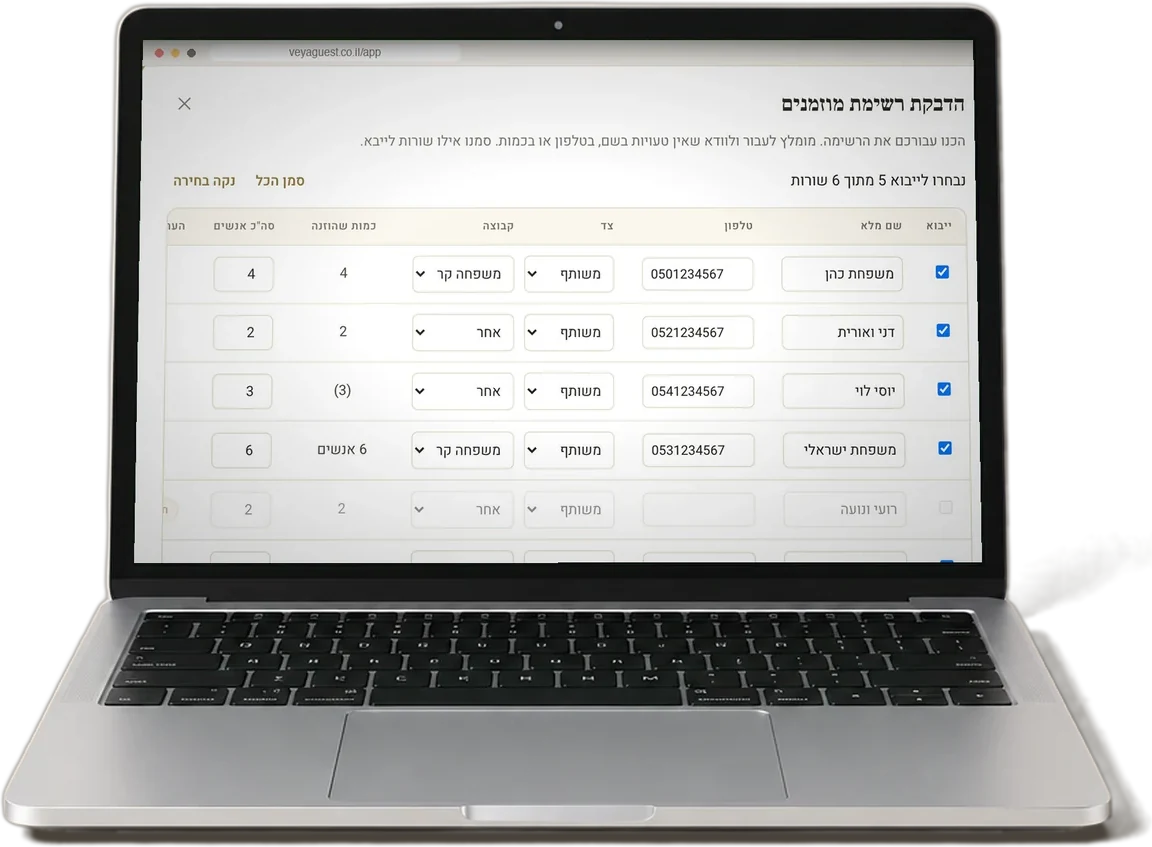
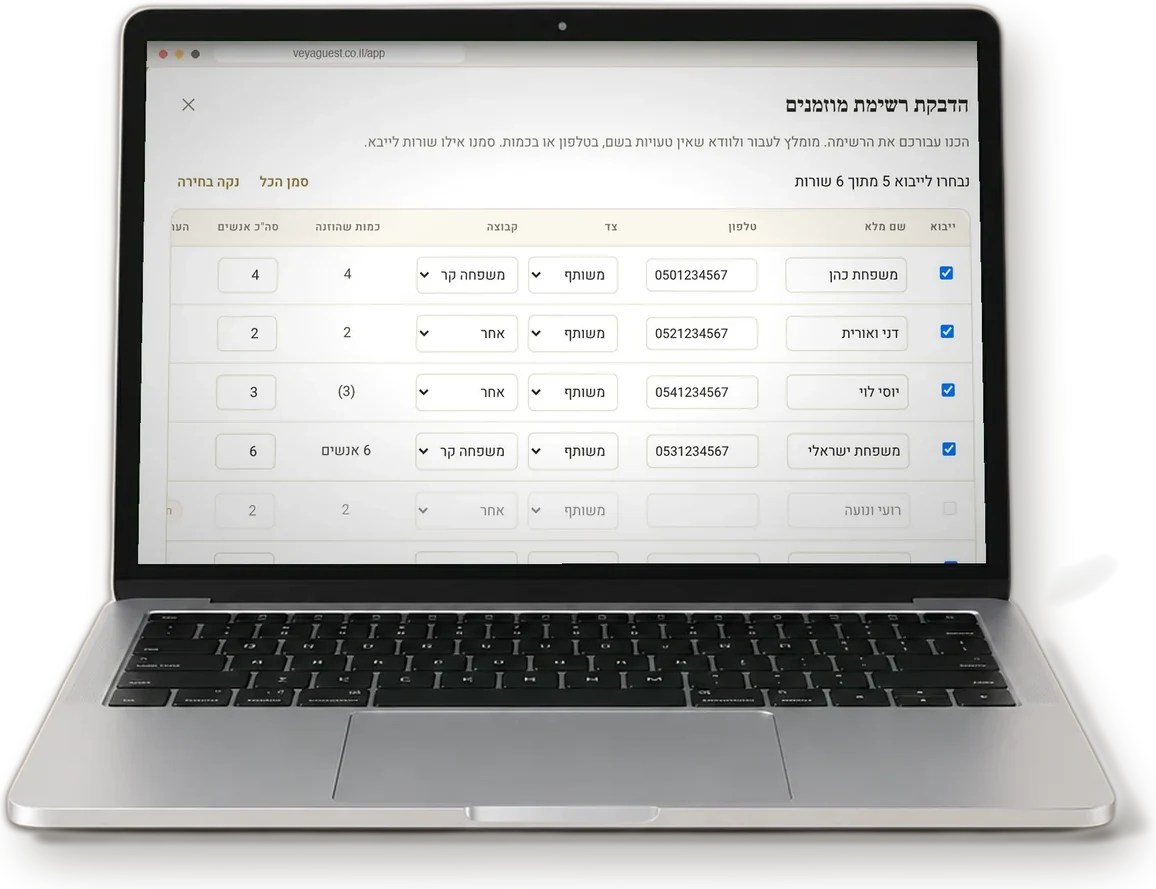
דף הבית: צל נקי למחשבים — קו מגע מתחת לבסיס וצל רך לצד, בלי גרעיניות
הצל של הצילום הוחלק (בלי הגרעיניות של הנייר), ונוספו צל מגע צמוד שנבנה מקו
המתאר של המחשב וצל מוטל רך שנופל מעט הצידה, הרחק מהאור. קצה הבסיס נשאר שלם.

diff --git a/frontend/index.html b/frontend/index.html
@@ -2209,7 +2209,7 @@ html[data-a11y-motion] .lp-enter, html[data-a11y-motion] .lp-rv { opacity: 1; tr
       <a class="lp-link lp-more" href="/features/guests/">על רשימת המוזמנים</a>
     </div>
     <div class="lp-scene">
-      <figure class="lp-device lp-rv"><img loading="lazy" decoding="async" src="/product/mac-paste-review-front.webp" width="1152" height="847" alt="בדיקת רשימה שהודבקה: שמות, טלפונים, צד, קבוצה וכמות, על מסך מחשב נייד"></figure>
+      <figure class="lp-device lp-rv"><img loading="lazy" decoding="async" src="/product/mac-paste-review-front.webp" width="1156" height="889" alt="בדיקת רשימה שהודבקה: שמות, טלפונים, צד, קבוצה וכמות, על מסך מחשב נייד"></figure>
       <img loading="lazy" decoding="async" class="lp-person lp-rv" style="transition-delay:200ms" src="/people/planning-together.webp" alt="זוג מול המחשב">
       <div class="lp-chip lp-a lp-rv" style="transition-delay:350ms"><b class="lp-sm">5 מתוך 6 שורות</b>נבחרו לייבוא</div>
     </div>
@@ -2226,7 +2226,7 @@ html[data-a11y-motion] .lp-enter, html[data-a11y-motion] .lp-rv { opacity: 1; tr
       <a class="lp-link lp-more" href="/features/rsvp/">על אישורי ההגעה והמעקב הטלפוני</a>
     </div>
     <div class="lp-scene">
-      <figure class="lp-device lp-rv"><img loading="lazy" decoding="async" src="/product/mac-rsvp-studio.webp" width="1362" height="842" alt="מסך אישורי ההגעה: ספירה ומסלול של בקשות, תזכורות וסבבי שיחות, על מסך מחשב נייד"></figure>
+      <figure class="lp-device lp-rv"><img loading="lazy" decoding="async" src="/product/mac-rsvp-studio.webp" width="1254" height="889" alt="מסך אישורי ההגעה: ספירה ומסלול של בקשות, תזכורות וסבבי שיחות, על מסך מחשב נייד"></figure>
       <div class="lp-chip lp-a lp-rv" style="transition-delay:250ms"><b class="lp-sm">סבב שיחות ראשון</b>מי שעדיין לא אישר · 134 מוזמנים</div>
       <div class="lp-chip lp-b lp-rv" style="transition-delay:400ms"><b class="lp-green">122</b>אישרו הגעה</div>
     </div>
@@ -2261,7 +2261,7 @@ html[data-a11y-motion] .lp-enter, html[data-a11y-motion] .lp-rv { opacity: 1; tr
       <a class="lp-link lp-more" href="/features/seating/">על סידור ההושבה</a>
     </div>
     <div class="lp-scene">
-      <figure class="lp-device lp-rv"><img loading="lazy" decoding="async" src="/product/mac-seating-front.webp" width="1151" height="847" alt="מסך סידור ההושבה: מפת האולם עם השולחנות ורשימת המוזמנים, על מסך מחשב נייד"></figure>
+      <figure class="lp-device lp-rv"><img loading="lazy" decoding="async" src="/product/mac-seating-front.webp" width="1155" height="889" alt="מסך סידור ההושבה: מפת האולם עם השולחנות ורשימת המוזמנים, על מסך מחשב נייד"></figure>
       <div class="lp-chip lp-a lp-rv" style="transition-delay:250ms"><b class="lp-sm">אלון שפירא ✓</b>אישרו הגעה · 4 אנשים · שולחן 2</div>
       <div class="lp-chip lp-goldbtn lp-b lp-rv" style="transition-delay:400ms">הושבה בקליק</div>
     </div>
